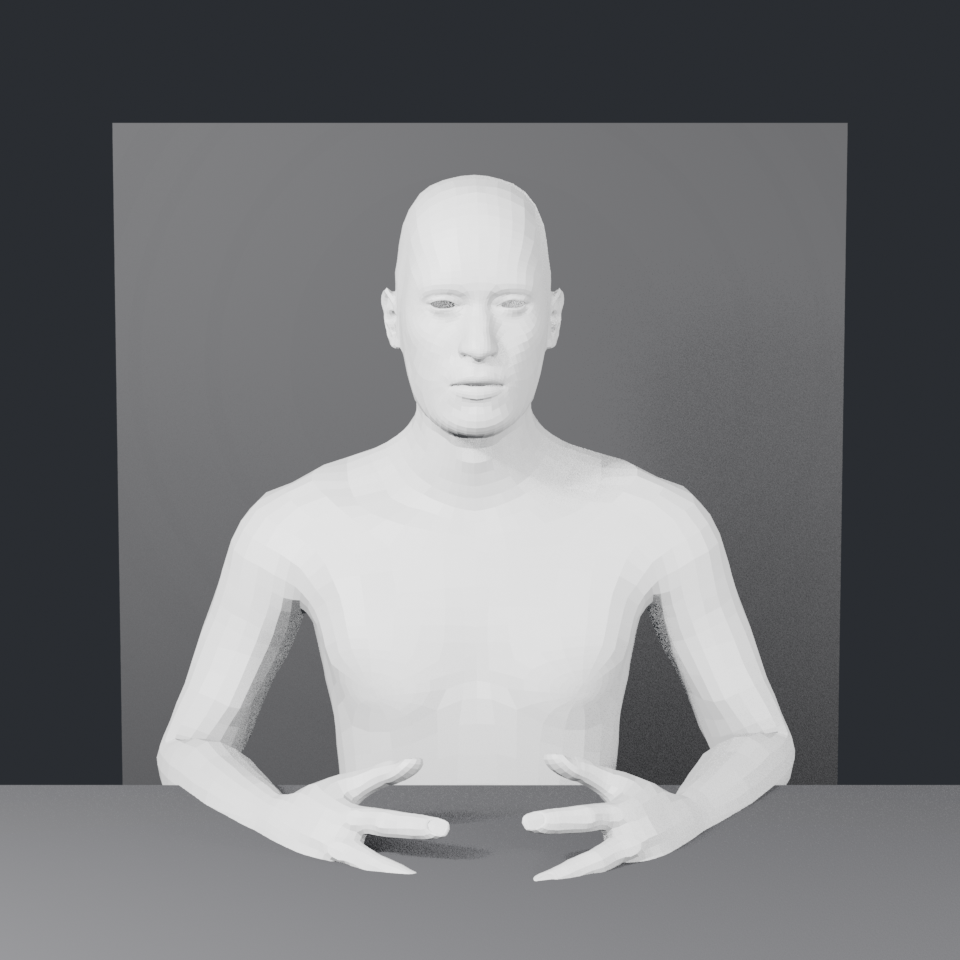
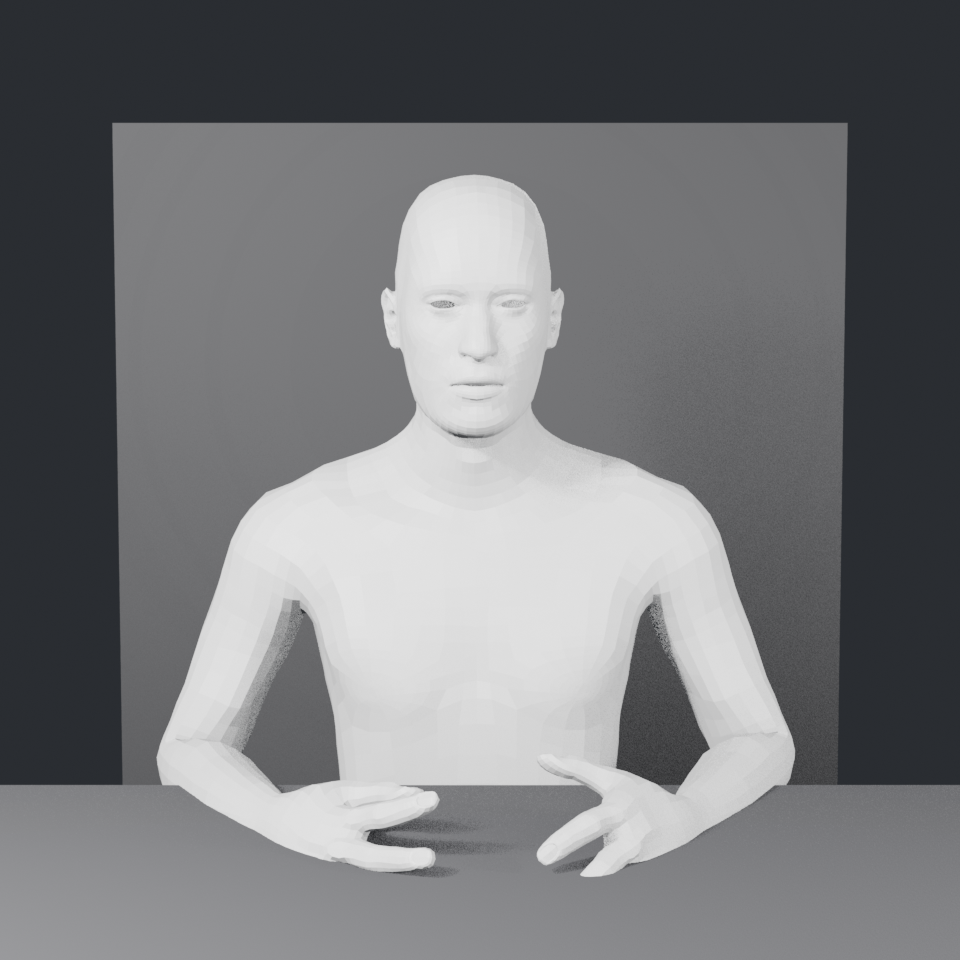
Anon: 3 files (3 modified)

Changed region(s): [[0.375, 0.7812, 0.4688, 0.9375], [0.5312, 0.8125, 0.6562, 0.9375]]

diff --git a/Anon/src/presenter/motion/adapters/mpfb.py b/Anon/src/presenter/motion/adapters/mpfb.py
@@ -69,6 +69,10 @@ AXIS_MAP: dict[str, tuple[str, tuple[int, int, int], tuple[float, float, float]]
 # upper bone is the rib cage proper and carries most of it.
 CHEST_TOP_SHARE = 0.62
 
+# Finger local axes, measured by driving each in turn on this rig.
+FINGER_CURL_AXIS = 0
+FINGER_SPREAD_AXIS = 2
+
 D2R = math.pi / 180.0
 
 
@@ -140,9 +144,14 @@ class MPFBAdapter:
                         continue
                     amount = curl * share[seg - 1] * 78.0 * D2R
                     e = [0.0, 0.0, 0.0]
-                    e[2] = amount * (1.0 if side == "l" else -1.0)
+                    # Local X. Established by driving each axis in turn and
+                    # looking: X curls toward the palm, Y twists the finger and
+                    # Z splays it sideways. Z was the first guess and produced a
+                    # hand with its fingers fanned apart rather than closed.
+                    e[FINGER_CURL_AXIS] = amount * (1.0 if side == "l" else -1.0)
                     if seg == 1:
-                        e[1] = hand.spread * 9.0 * D2R * (1 if side == "l" else -1)
+                        e[FINGER_SPREAD_AXIS] = (
+                            hand.spread * 9.0 * D2R * (1 if side == "l" else -1))
                     bone.rotation_euler = e
 
     def _apply_contacts(self, motion: HumanMotionState) -> None:

diff --git a/Anon/src/presenter/motion/state.py b/Anon/src/presenter/motion/state.py
@@ -82,7 +82,9 @@ class HandPose:
     first. The adapter distributes each curl across that finger's joints.
     """
 
-    curl: list[float] = field(default_factory=lambda: [0.18, 0.22, 0.20, 0.24, 0.30])
+    # Resting curls for a hand lying on a desk: never straight, never equal.
+    # Perfectly straight fingers are the clearest mannequin tell there is.
+    curl: list[float] = field(default_factory=lambda: [0.26, 0.34, 0.31, 0.36, 0.42])
     spread: float = 0.0          # abduction, + = fingers apart
     # What the hand is resting on. The adapter turns this into an IK target;
     # None means the hand is posed by its joint chain alone.
